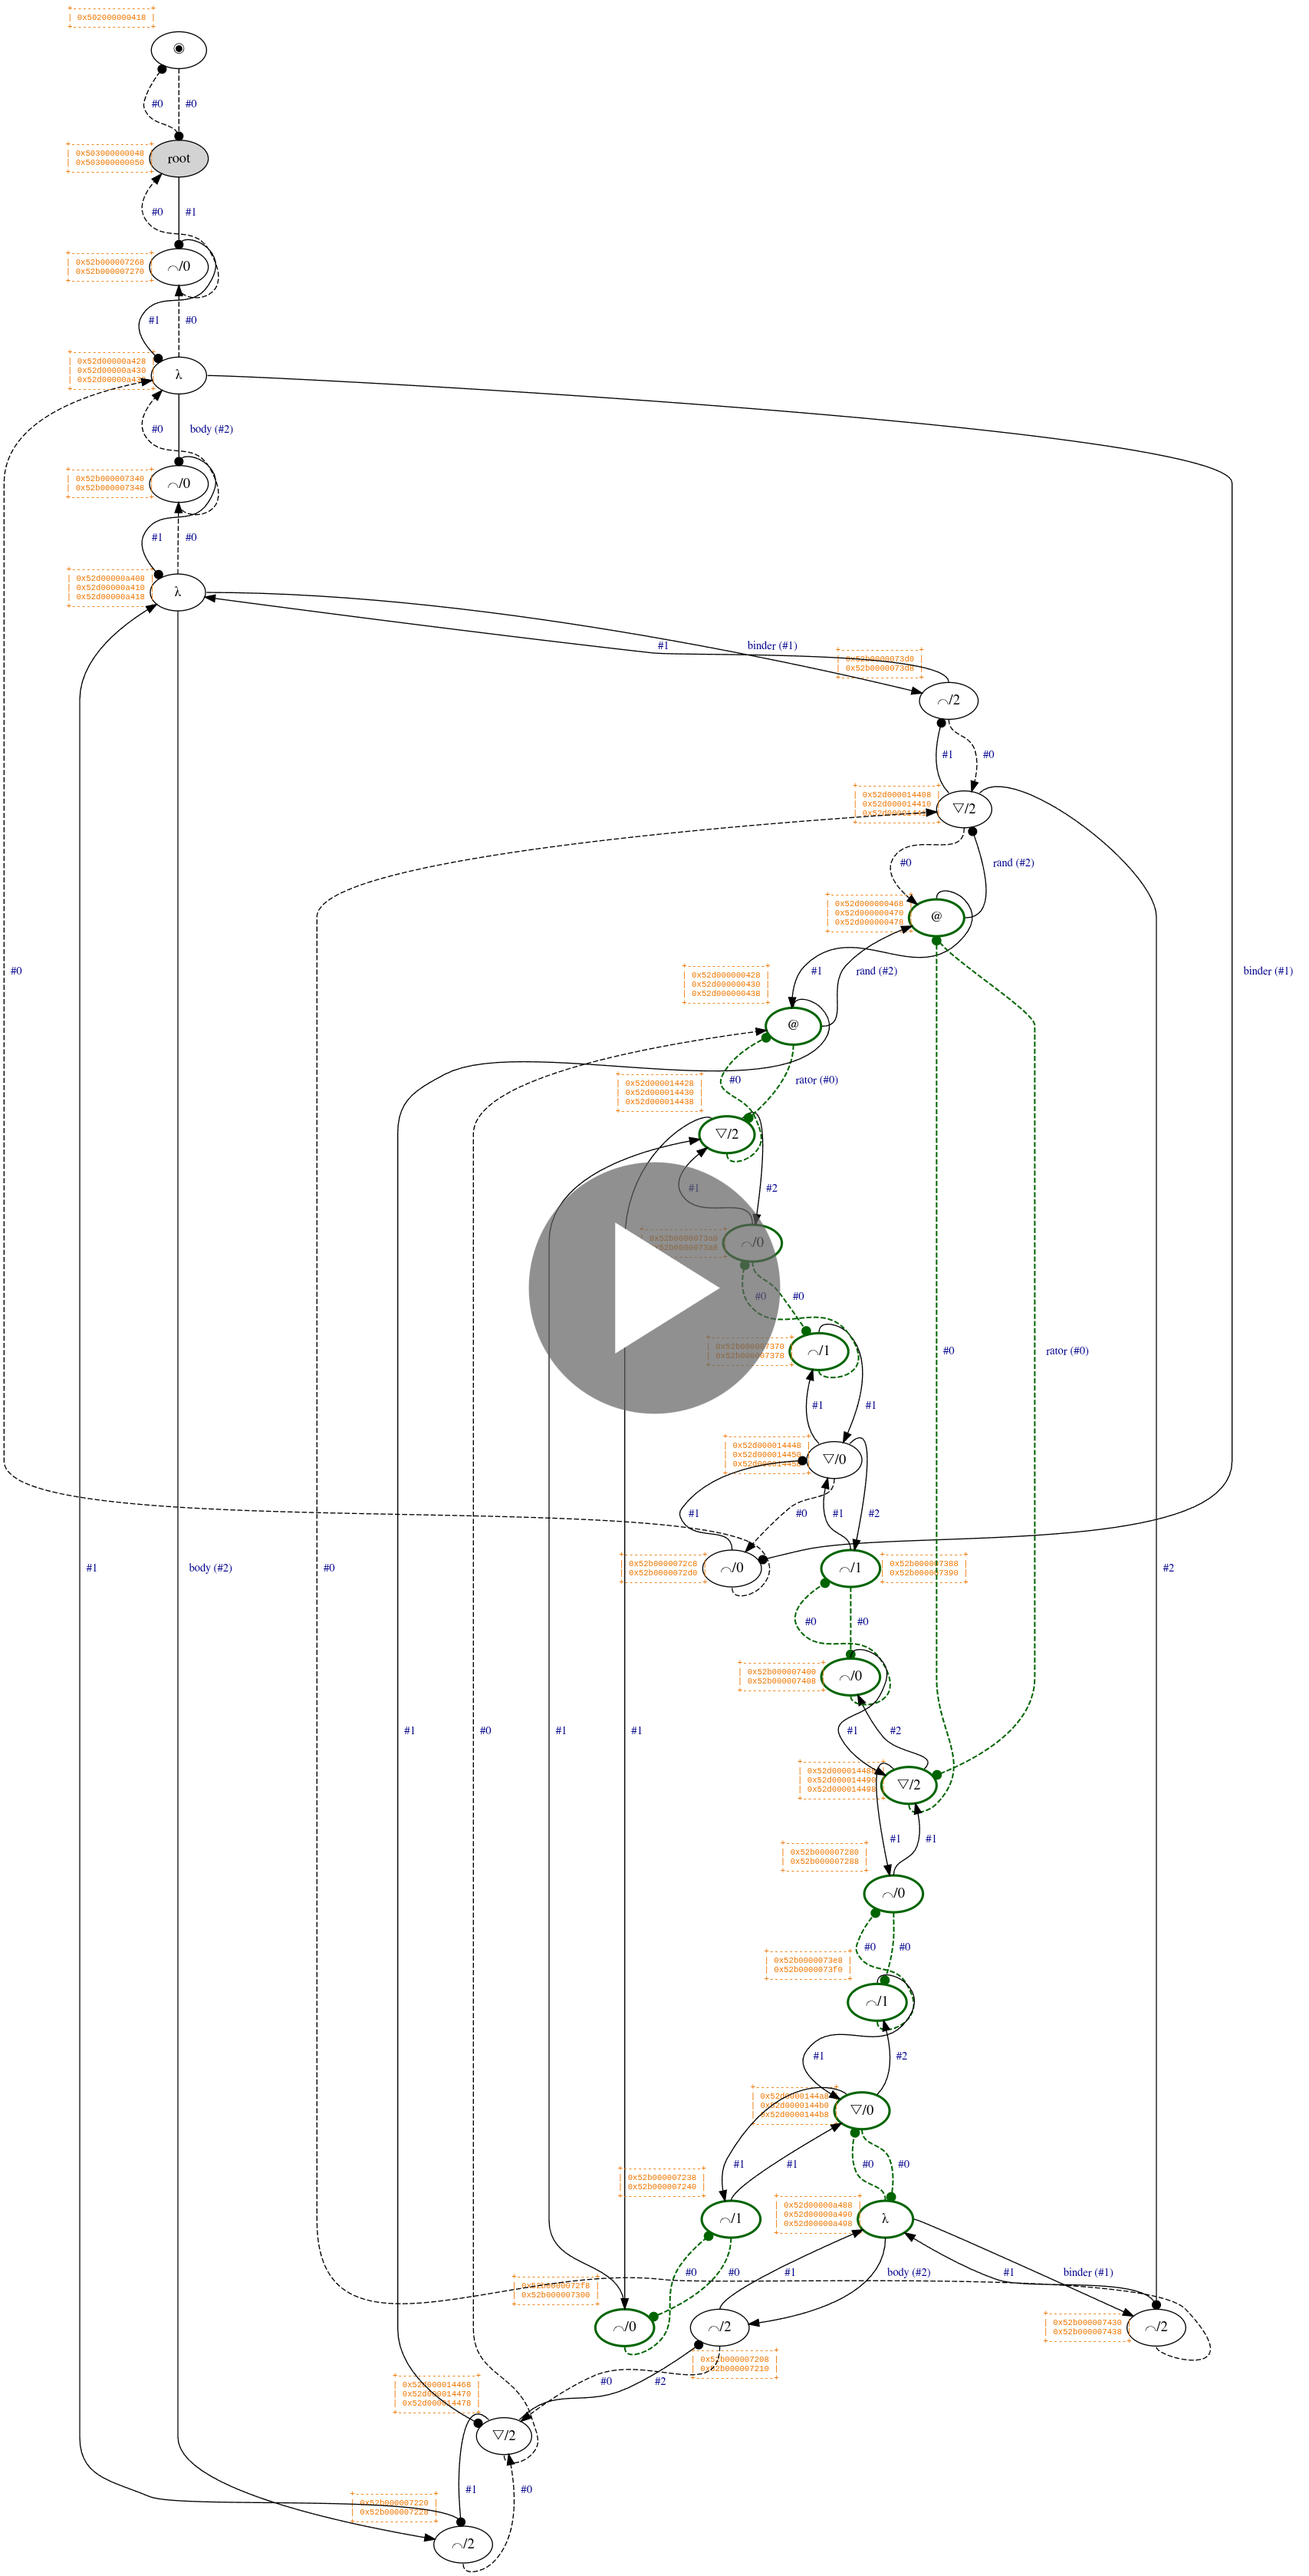
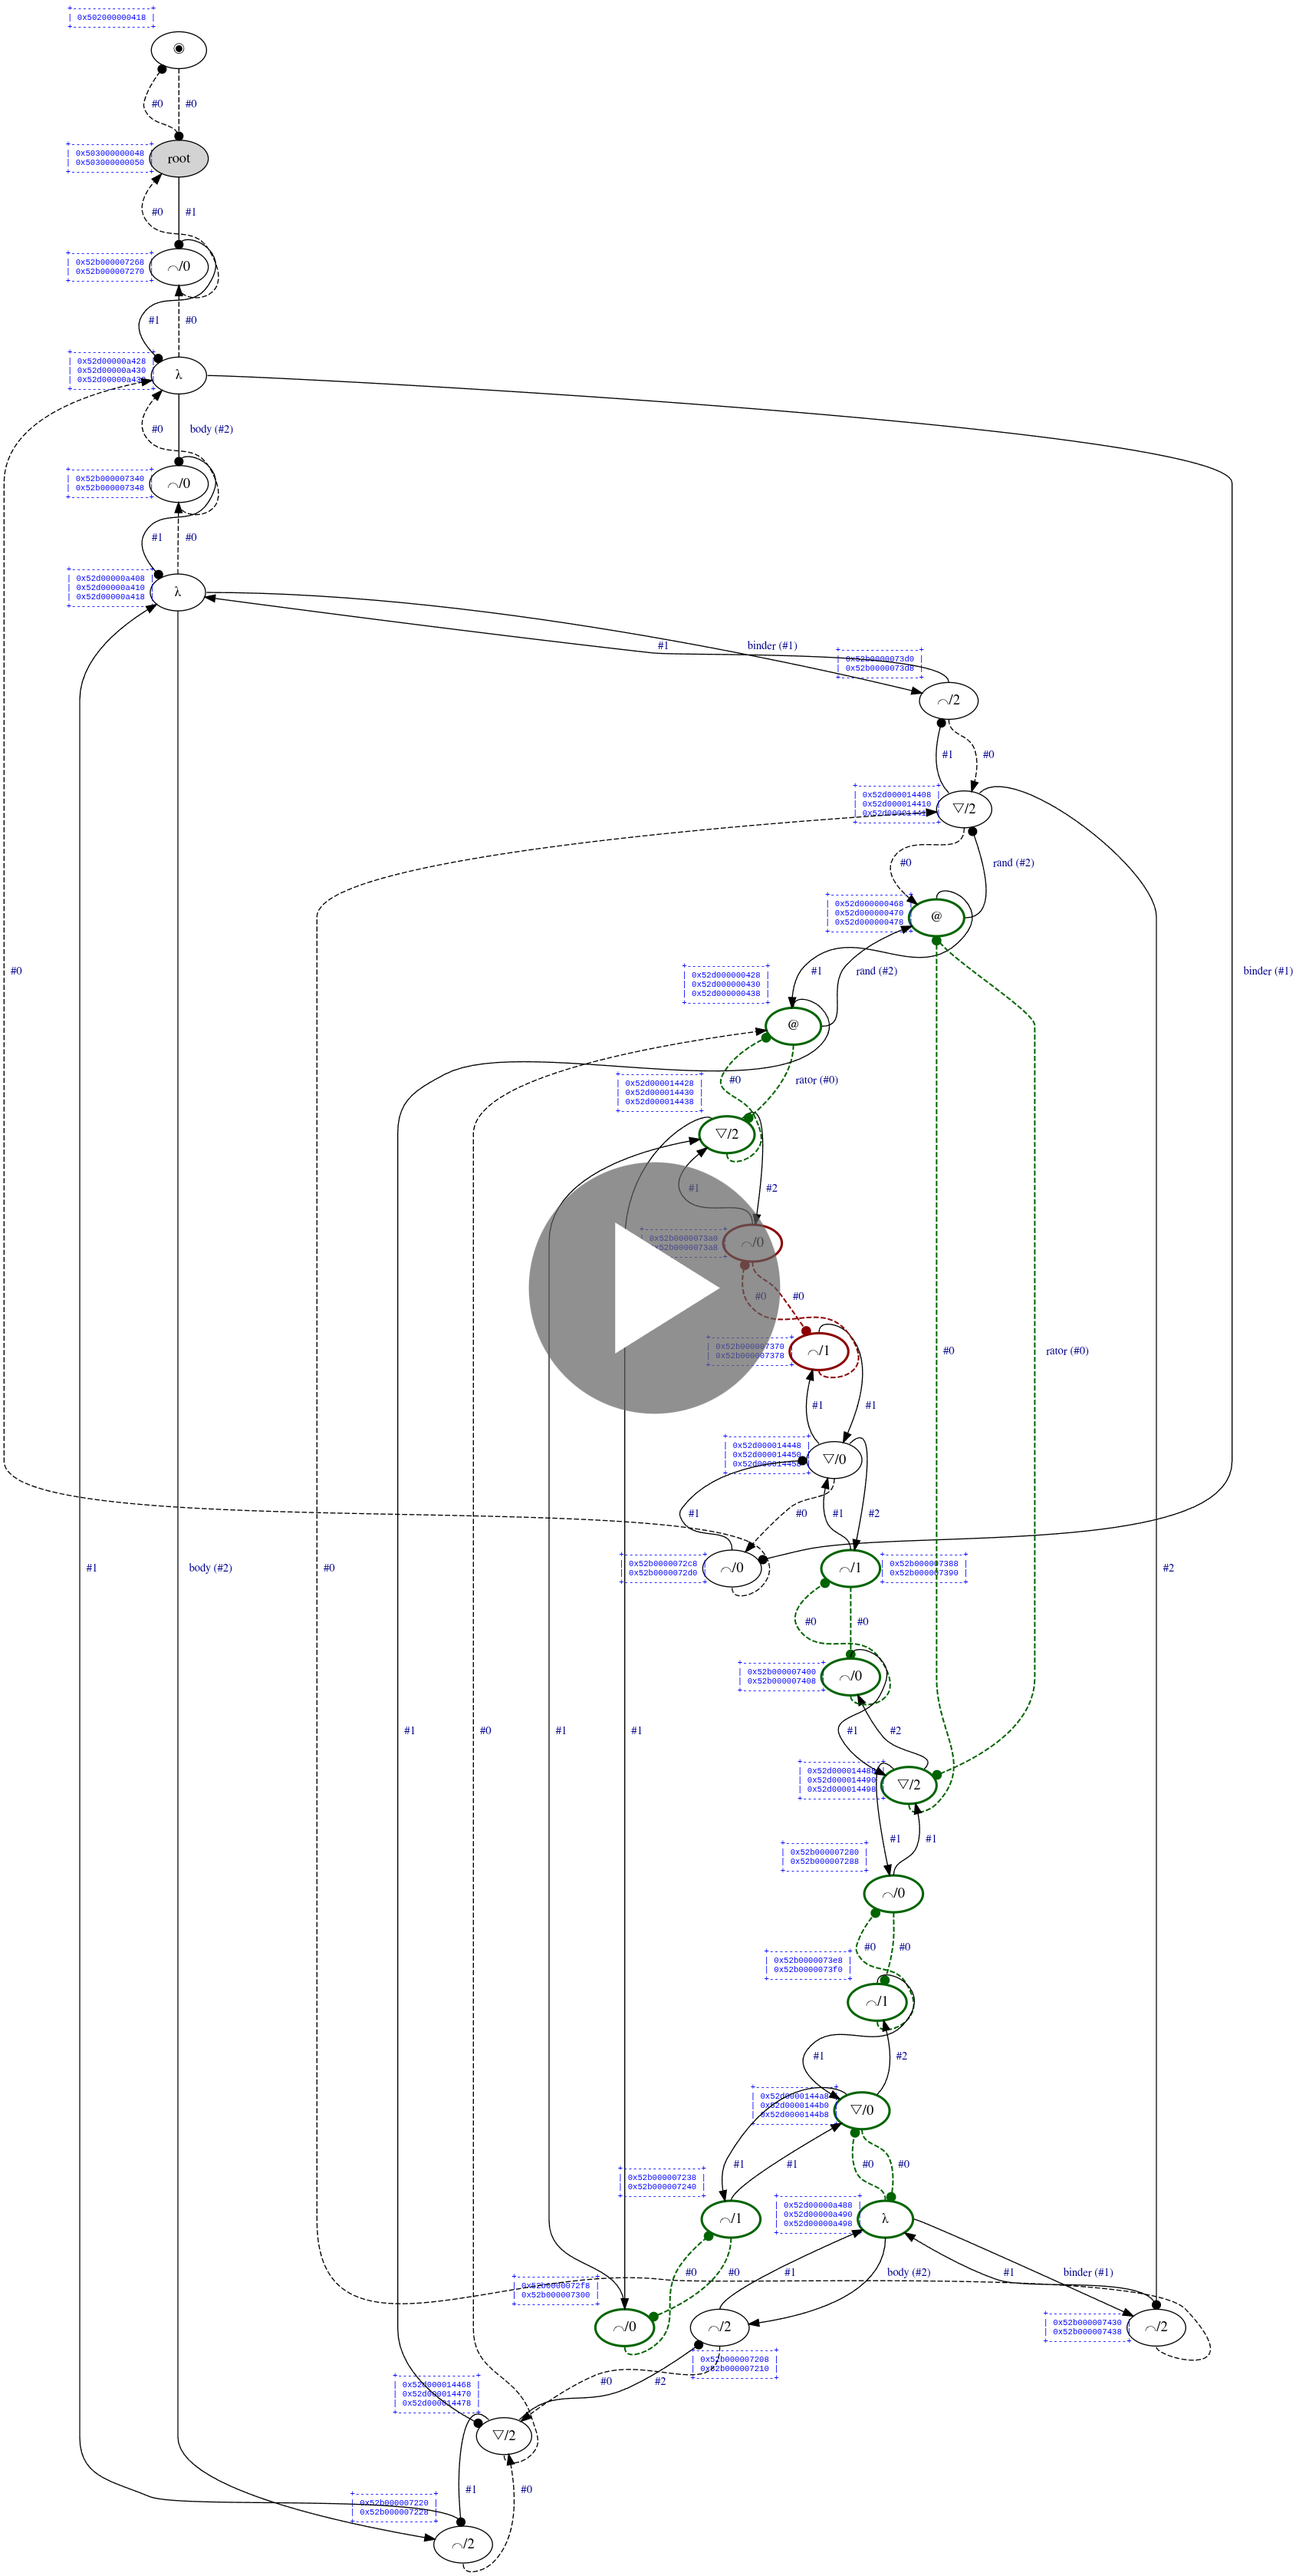
Display the current active pair in dark red

diff --git a/optiscope.c b/optiscope.c
@@ -1139,6 +1139,10 @@ struct context {
     struct multifocus *gc_focus, *gc_history;
 
     struct multifocus *unsharing_focus;
+
+#ifdef OPTISCOPE_ENABLE_GRAPHVIZ
+    struct node current_pair[2];
+#endif
 };
 
 COMPILER_NONNULL(1) COMPILER_COLD //
@@ -1175,6 +1179,10 @@ static struct context *alloc_context(void) {
     graph->gc_history = xcalloc(1, sizeof *graph->gc_history);
 
     graph->unsharing_focus = xcalloc(1, sizeof *graph->unsharing_focus);
+
+#ifdef OPTISCOPE_ENABLE_GRAPHVIZ
+    CLEAR_MEMORY(graph->current_pair);
+#endif
 
     return graph;
 }
@@ -1452,18 +1460,18 @@ graphviz_node_xlabel(const struct node node) {
 COMPILER_PURE COMPILER_WARN_UNUSED_RESULT COMPILER_RETURNS_NONNULL //
 static const char *
 graphviz_edge_label(
-    const struct node node, const uint8_t i, const bool is_reading_back) {
+    const struct node node, const uint8_t i, const uint64_t phase) {
     XASSERT(node.ports);
 
     static char buffer[16] = {0};
 
     switch (node.ports[-1]) {
     case SYMBOL_APPLICATOR:
-        if ((is_reading_back ? 0 : 1) == i) {
+        if ((phase >= PHASE_UNWIND ? 0 : 1) == i) {
             sprintf(buffer, "\\#%" PRIu8, i);
-        } else if ((is_reading_back ? 2 : 0) == i) {
+        } else if ((phase >= PHASE_UNWIND ? 2 : 0) == i) {
             sprintf(buffer, "rator (\\#%" PRIu8 ")", i);
-        } else if ((is_reading_back ? 1 : 2) == i) {
+        } else if ((phase >= PHASE_UNWIND ? 1 : 2) == i) {
             sprintf(buffer, "rand (\\#%" PRIu8 ")", i);
         } else {
             COMPILER_UNREACHABLE();
@@ -1487,13 +1495,13 @@ graphviz_edge_label(
 COMPILER_PURE COMPILER_WARN_UNUSED_RESULT //
 static uint8_t
 graphviz_edge_weight(
-    const struct node node, const uint8_t i, const bool is_reading_back) {
+    const struct node node, const uint8_t i, const uint64_t phase) {
     if (is_active(node) && 0 == i) { return 3; }
 
     switch (node.ports[-1]) {
     case SYMBOL_APPLICATOR:
-        if ((is_reading_back ? 2 : 0) == i) return 5; // rator
-        if ((is_reading_back ? 1 : 2) == i) return 5; // rand
+        if ((phase >= PHASE_UNWIND ? 2 : 0) == i) return 5; // rator
+        if ((phase >= PHASE_UNWIND ? 1 : 2) == i) return 5; // rand
         break;
     case SYMBOL_LAMBDA:
     case SYMBOL_LAMBDA_C:
@@ -1512,7 +1520,7 @@ graphviz_edge_weight(
 COMPILER_PURE COMPILER_WARN_UNUSED_RESULT COMPILER_RETURNS_NONNULL //
 static const char *
 graphviz_edge_tailport(
-    const struct node node, const uint8_t i, const bool is_reading_back) {
+    const struct node node, const uint8_t i, const uint64_t phase) {
     XASSERT(node.ports);
 
     switch (node.ports[-1]) {
@@ -1525,9 +1533,9 @@ graphviz_edge_tailport(
         default: COMPILER_UNREACHABLE();
         }
     case SYMBOL_APPLICATOR:
-        if ((is_reading_back ? 0 : 1) == i) return "n";
-        else if ((is_reading_back ? 2 : 0) == i) return "s";
-        else if ((is_reading_back ? 1 : 2) == i) return "e";
+        if ((phase >= PHASE_UNWIND ? 0 : 1) == i) return "n";
+        else if ((phase >= PHASE_UNWIND ? 2 : 0) == i) return "s";
+        else if ((phase >= PHASE_UNWIND ? 1 : 2) == i) return "e";
         else COMPILER_UNREACHABLE();
     case SYMBOL_LAMBDA:
     case SYMBOL_LAMBDA_C:
@@ -1608,10 +1616,21 @@ graphviz_is_active_edge(const struct node node, const uint8_t i) {
 }
 
 struct graphviz_context {
-    FILE *stream;
+    struct context *graph;
     struct node_list *history;
-    const bool is_reading_back;
+    FILE *stream;
 };
+
+COMPILER_NONNULL(1) //
+inline static bool
+graphviz_is_current_node(
+    struct graphviz_context *const restrict ctx, const struct node node) {
+    assert(ctx);
+    XASSERT(node.ports);
+
+    return ctx->graph->current_pair[0].ports == node.ports ||
+           ctx->graph->current_pair[1].ports == node.ports;
+}
 
 COMPILER_NONNULL(1) //
 static void
@@ -1621,6 +1640,7 @@ graphviz_draw_node(
     XASSERT(node.ports);
 
     const bool is_active = graphviz_is_active_node(node),
+               is_current = graphviz_is_current_node(ctx, node),
                is_root = SYMBOL_ROOT == node.ports[-1];
 
     fprintf(
@@ -1628,13 +1648,14 @@ graphviz_draw_node(
         // clang-format off
         GRAPHVIZ_INDENT "n%p"
         " [label=\"%s\""
-        ", xlabel=<<FONT FACE=\"Courier\" COLOR=\"darkorange2\" POINT-SIZE=\"8\">%s</FONT>>"
+        ", xlabel=<<FONT FACE=\"Courier\" COLOR=\"blue\" POINT-SIZE=\"8\">%s</FONT>>"
         "%s%s%s];\n",
         // clang-format on
         (void *)node.ports,
         print_symbol(node.ports[-1]),
         graphviz_node_xlabel(node),
-        (is_active ? ", color=darkgreen" : ""),
+        (is_current ? ", color=darkred"
+                    : (is_active ? ", color=darkgreen" : "")),
         (is_active ? ", penwidth=2.3" : ""),
         (is_root ? ", style=filled" : ""));
 }
@@ -1661,10 +1682,12 @@ graphviz_draw_edge(
         // clang-format on
         (void *)source.ports,
         (void *)target.ports,
-        graphviz_edge_label(source, i, ctx->is_reading_back),
-        graphviz_edge_weight(source, i, ctx->is_reading_back),
-        graphviz_edge_tailport(source, i, ctx->is_reading_back),
-        (is_active ? ", color=darkgreen" : ""),
+        graphviz_edge_label(source, i, ctx->graph->phase),
+        graphviz_edge_weight(source, i, ctx->graph->phase),
+        graphviz_edge_tailport(source, i, ctx->graph->phase),
+        (is_active && graphviz_is_current_node(ctx, source)
+             ? ", color=darkred"
+             : (is_active ? ", color=darkgreen" : "")),
         (is_active ? ", penwidth=1.5" : ""),
         (IS_PRINCIPAL_PORT(*target_port) ? ", arrowhead=dot" : ""),
         (0 == i ? ", style=dashed" : ""));
@@ -1693,7 +1716,7 @@ go_graphviz(
 COMPILER_NONNULL(1, 2) //
 static void
 graphviz(
-    const struct context *const restrict graph,
+    struct context *const restrict graph, //
     const char filename[const restrict]) {
     debug("%s(\"%s\")", __func__, filename);
 
@@ -1712,12 +1735,11 @@ graphviz(
         "edge [fontname=\"bold helvetica\""
         ", fontsize=11"
         ", fontcolor=darkblue];\n");
-    struct graphviz_context ctx = {
-        .stream = fp,
-        .history = NULL,
-        .is_reading_back = graph->phase >= PHASE_UNWIND,
-    };
+    // clang-format off
+    struct graphviz_context ctx = {.graph = graph, .history = NULL, .stream = fp};
+    // clang-format on
     go_graphviz(&ctx, graph->root, 0);
+    CLEAR_MEMORY(ctx.graph->current_pair);
     ctx.history = unvisit_all(ctx.history);
     fprintf(fp, "}\n");
 
@@ -1736,7 +1758,7 @@ graphviz(
 
 COMPILER_NONNULL(1) //
 static void
-wait_for_user(const struct context *const restrict graph) {
+wait_for_user(struct context *const restrict graph) {
     assert(graph);
 
 #ifdef OPTISCOPE_ENABLE_GRAPHVIZ
@@ -2114,11 +2136,13 @@ COMPILER_NONNULL(1, 2) //
 static void
 debug_interaction(
     const char caller[const restrict],
-    const struct context *const restrict graph,
+    struct context *const restrict graph,
     const struct node f,
     const struct node g) {
     assert(caller);
     assert(graph);
+
+    graph->current_pair[0] = f, graph->current_pair[1] = g;
 
     char f_ssymbol[MAX_SSYMBOL_SIZE] = {0}, g_ssymbol[MAX_SSYMBOL_SIZE] = {0};
     strcpy(f_ssymbol, print_symbol(f.ports[-1])),

diff --git a/README.md b/README.md
@@ -176,7 +176,7 @@ _Optimal evaluation_ (in Lévy's sense [^levy-thesis] [^levy-optimal-reductions]
 In practice, this is how the complete reduction of Church numeral 2^2 looks like:
 
 <div align="center">
-  <a href="https://github.com/user-attachments/assets/fa0db1c8-0684-440a-88dc-82cb4304c476">
+  <a href="https://github.com/user-attachments/assets/f1e3ef9d-b94b-4885-bd84-cb1579f305dd">
     <img src="media/2-power-2-preview.png" width="400px" alt="Church 2^2 reduction" />
   </a>
 </div>
@@ -254,7 +254,7 @@ In Optiscope, it is possible to observe _all the interaction steps_ involved in 
 The visualization will then be as follows:
 
 <div align="center">
-  <a href="https://github.com/user-attachments/assets/768481fc-15f0-4a31-8759-c8bbb37afb95">
+  <a href="https://github.com/user-attachments/assets/145de417-06cc-4b8b-afcc-76ccc2ebc6ce">
     <img src="media/lamping-example-preview.png" width="680px" alt="Lamping example" />
   </a>
 </div>

diff --git a/CHANGELOG.md b/CHANGELOG.md
@@ -7,6 +7,10 @@ and this project adheres to [Semantic Versioning](https://semver.org/spec/v2.0.0
 
 ## unreleased
 
+### Changed
+
+ - Graphviz: display the current active pair in dark red, & addresse tables in blue.
+
 ## 0.1.0 - 2025-06-19
 
 ### Added
